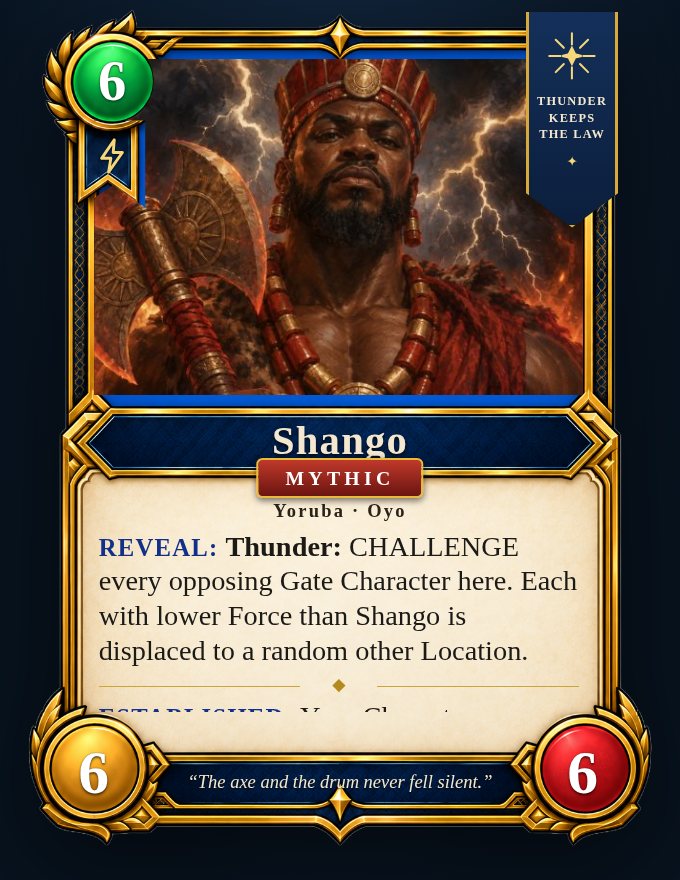
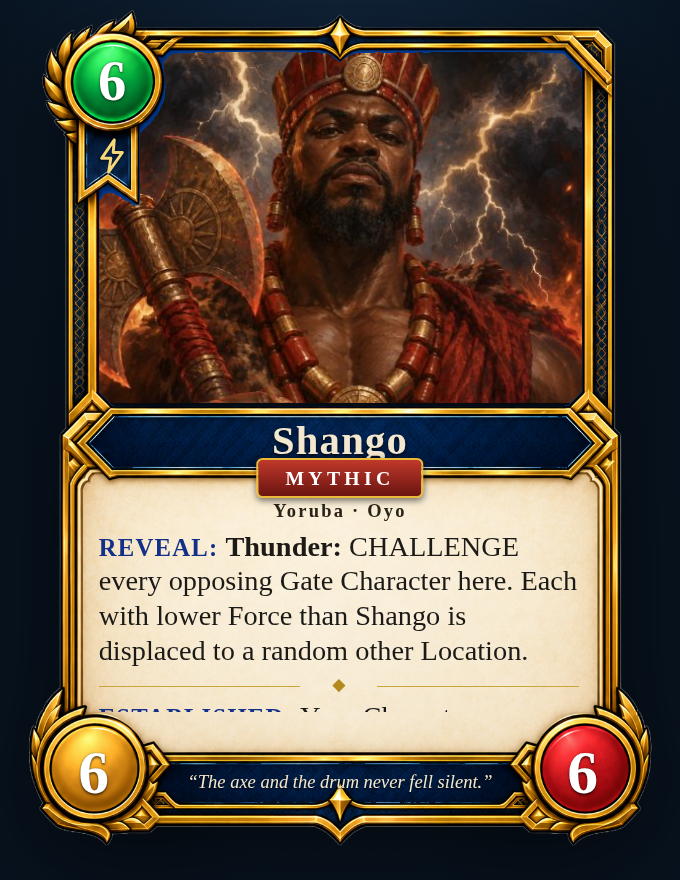
docs: card template on the knocked-out frame, pennant hidden
Claude-Session: https://claude.ai/code/session_01CdCWBBELLp3cWMWqqhgQtC

Changed region(s): [[0.1235, 0.0, 0.9265, 0.4602]]

diff --git a/docs/card-template/mock.html b/docs/card-template/mock.html
@@ -1,7 +1,7 @@
 <title>Universal Card Template</title>
 <link rel="stylesheet" href="https://fonts.googleapis.com/css2?family=Cinzel:wght@600;700;800&family=Crimson+Pro:ital,wght@0,500;0,600;0,700;1,500&display=swap">
 <style>
-  :root { --frame: url("card-template.png"); --bg: #08131f; --panel: #0f1f33; --line: #2a4466; --text: #f1e9d6; --muted: #a9b4c2; --gold: #e9b93a; --gold-2: #f6d77a; --parchment: #f3e8cf; --display: 'Cinzel', 'Trajan Pro', Georgia, serif; --font: 'Crimson Pro', Georgia, serif; }
+  :root { --frame: url("card-frame.png"); --bg: #08131f; --panel: #0f1f33; --line: #2a4466; --text: #f1e9d6; --muted: #a9b4c2; --gold: #e9b93a; --gold-2: #f6d77a; --parchment: #f3e8cf; --display: 'Cinzel', 'Trajan Pro', Georgia, serif; --font: 'Crimson Pro', Georgia, serif; }
   body { margin: 0; background: var(--bg) radial-gradient(ellipse at 50% -10%, #142a44 0%, var(--bg) 60%); color: var(--text); font-family: var(--font); font-size: 18px; line-height: 1.45; padding-block: 28px 64px; padding-inline: clamp(16px, 4vw, 48px); }
   .wrap { max-width: 1100px; margin: 0 auto; }
   header { text-align: center; margin-bottom: 18px; }
@@ -19,24 +19,19 @@
   h2 { font-family: var(--display); font-weight: 700; font-size: 16px; letter-spacing: 0.12em; text-transform: uppercase; color: var(--gold-2); margin: 0 0 4px; }
 
   /* One card = the template's 1103 x 1426 box; every measurement is a percentage of the card's width (cqw), so the
-     same layout holds at hand size and at Codex size. The frame is the designer's PNG, untouched: the portrait sits
-     on top of it, clipped to the blue window. */
+     same layout holds at hand size and at Codex size. The frame is the designer's PNG with its window knocked out,
+     so the portrait sits under it and the medallions and ribbon are simply part of the frame. */
   .card { position: relative; container-type: inline-size; width: 100%; aspect-ratio: 1103 / 1426; font-family: var(--font); color: #1b1a17; }
   .card > * { position: absolute; }
   .card .frame { inset: 0; width: 100%; height: 100%; z-index: 2; pointer-events: none; background: var(--frame) center / 100% 100% no-repeat; }
-  /* The cost medallion and its ribbon are painted on the frame over the window, so two more passes of the same PNG,
-     cut to just those shapes (a circle for the medallion, the ribbon's pennant outline), ride above the portrait. */
-  .card .frame-medal, .card .frame-ribbon { inset: 0; width: 100%; height: 100%; z-index: 4; pointer-events: none; background: var(--frame) center / 100% 100% no-repeat; }
-  .card .frame-medal { -webkit-mask: radial-gradient(circle at 16.50cqw 11.79cqw, #000 6.05cqw, transparent 6.15cqw); mask: radial-gradient(circle at 16.50cqw 11.79cqw, #000 6.05cqw, transparent 6.15cqw); }
-  .card .frame-ribbon { clip-path: polygon(11.85cqw 17.60cqw, 21.35cqw 17.60cqw, 21.35cqw 30.40cqw, 16.60cqw 27.10cqw, 11.85cqw 30.40cqw); }
-  .card .art { left: 13.78cqw; top: 8.52cqw; width: 71.99cqw; height: 49.50cqw; z-index: 3; background-size: cover; background-position: center 18%; }
+  .card .art { left: 12.70cqw; top: 7.40cqw; width: 74.20cqw; height: 51.80cqw; z-index: 1; background-size: cover; background-position: center 18%; }
   .card .num { z-index: 5; font-family: var(--display); font-weight: 800; color: #fff; text-align: center; transform: translate(-50%, -50%); text-shadow: 0 0.27cqw 0.36cqw rgba(0,0,0,0.55), 0 0 0.18cqw rgba(0,0,0,0.6); line-height: 1; }
   .card .cost { left: 16.50cqw; top: 11.79cqw; font-size: 8.34cqw; }
   .card .inf { left: 13.78cqw; top: 113.51cqw; font-size: 9.07cqw; }
   .card .force { left: 85.68cqw; top: 113.51cqw; font-size: 9.07cqw; }
   .card .kindicon { z-index: 5; left: 16.50cqw; top: 22.85cqw; transform: translate(-50%, -50%); width: 5.44cqw; height: 5.44cqw; }
   .card .kindicon svg { width: 100%; height: 100%; fill: none; stroke: #f6d77a; stroke-width: 5; stroke-linejoin: round; stroke-linecap: round; filter: drop-shadow(0 0.18cqw 0.18cqw rgba(0,0,0,0.6)); }
-  .card .pennant { z-index: 3; right: 9.07cqw; top: 1.63cqw; width: 13.60cqw; height: 31.73cqw; background: linear-gradient(180deg, #14305a, #0b1e3c); border: 0.54cqw solid #d8a83a; border-top: 0; clip-path: polygon(0 0, 100% 0, 100% 84%, 50% 100%, 0 84%); box-shadow: 0 0.54cqw 1.63cqw rgba(0,0,0,0.5); display: flex; flex-direction: column; align-items: center; padding: 2.18cqw 0.91cqw; box-sizing: border-box; }
+  .card .pennant { z-index: 3; right: 9.07cqw; top: 1.63cqw; width: 13.60cqw; height: 31.73cqw; background: linear-gradient(180deg, #14305a, #0b1e3c); border: 0.54cqw solid #d8a83a; border-top: 0; clip-path: polygon(0 0, 100% 0, 100% 84%, 50% 100%, 0 84%); box-shadow: 0 0.54cqw 1.63cqw rgba(0,0,0,0.5); display: flex; flex-direction: column; align-items: center; padding: 2.18cqw 0.91cqw; box-sizing: border-box; display: none; }
   .card .pennant .sun { width: 7.62cqw; height: 7.62cqw; margin: 0.54cqw 0 1.63cqw; }
   .card .pennant .motto { font-family: var(--display); font-weight: 700; font-size: 1.81cqw; line-height: 1.35; letter-spacing: 0.1em; color: #f3e8cf; text-align: center; }
   .card .pennant .dia { color: #f6d77a; font-size: 1.99cqw; margin-top: 1.27cqw; }
@@ -62,14 +57,12 @@
   <header>
     <div class="eyebrow">Stand on Business · sketch, not in the game yet</div>
     <h1>Universal Card Template</h1>
-    <p>Your PNG, untouched, as the frame. The portrait sits over the blue window; the rules are set at reading size and scroll when they run long.</p>
+    <p>Your frame with the window knocked out, the portrait under it; the rules are set at reading size and scroll when they run long. The motto pennant is hidden until it is something a player has won.</p>
   </header>
   <div class="tabs" role="tablist"><button type="button" class="tab on" data-for="david_ruggles" id="tab-david_ruggles">David Ruggles</button><button type="button" class="tab" data-for="shango" id="tab-shango">Shango</button><button type="button" class="tab" data-for="reparations" id="tab-reparations">Reparations</button></div>
   <div class="stage"><section class="slide" data-id="david_ruggles"><div class="card " data-id="david_ruggles">
       <div class="art" style="background-image:url('../../public/art/characters/david_ruggles.jpg')"></div>
       <div class="frame"></div>
-      <div class="frame-medal"></div>
-      <div class="frame-ribbon"></div>
       <div class="num cost">3</div>
       <div class="kindicon"><svg viewBox="0 0 64 64"><path d="M8 14c8-4 16-4 24 2 8-6 16-6 24-2v36c-8-4-16-4-24 2-8-6-16-6-24-2z"/><path d="M32 16v38"/></svg></div>
       <div class="pennant"><svg class="sun" viewBox="0 0 64 64" fill="none" stroke="#f6d77a" stroke-width="2.5" stroke-linecap="round"><path d="M32 4v14M32 46v14M4 32h14M46 32h14M12 12l10 10M42 42l10 10M52 12L42 22M22 42 12 52"/><path d="M32 22l4 8 8 2-8 2-4 8-4-8-8-2 8-2z" fill="#f6d77a"/></svg><div class="motto">TRUTH ORGANIZES FREEDOM</div><div class="dia">✦</div></div>
@@ -82,8 +75,6 @@
     </div></section><section class="slide" data-id="shango" hidden><div class="card mythic" data-id="shango">
       <div class="art" style="background-image:url('../../public/art/characters/shango.jpg')"></div>
       <div class="frame"></div>
-      <div class="frame-medal"></div>
-      <div class="frame-ribbon"></div>
       <div class="num cost">6</div>
       <div class="kindicon"><svg viewBox="0 0 64 64"><path d="M36 4 14 36h16l-4 24 24-34H34z"/></svg></div>
       <div class="pennant"><svg class="sun" viewBox="0 0 64 64" fill="none" stroke="#f6d77a" stroke-width="2.5" stroke-linecap="round"><path d="M32 4v14M32 46v14M4 32h14M46 32h14M12 12l10 10M42 42l10 10M52 12L42 22M22 42 12 52"/><path d="M32 22l4 8 8 2-8 2-4 8-4-8-8-2 8-2z" fill="#f6d77a"/></svg><div class="motto">THUNDER KEEPS THE LAW</div><div class="dia">✦</div></div>
@@ -96,8 +87,6 @@
     </div></section><section class="slide" data-id="reparations" hidden><div class="card event" data-id="reparations">
       <div class="art" style="background-image:url('../../public/art/events/reparations.jpg')"></div>
       <div class="frame"></div>
-      <div class="frame-medal"></div>
-      <div class="frame-ribbon"></div>
       <div class="num cost">1</div>
       <div class="kindicon"><svg viewBox="0 0 64 64"><path d="M32 6l6 18h19l-15 11 6 19-16-12-16 12 6-19L7 24h19z"/></svg></div>
       <div class="pennant"><svg class="sun" viewBox="0 0 64 64" fill="none" stroke="#f6d77a" stroke-width="2.5" stroke-linecap="round"><path d="M32 4v14M32 46v14M4 32h14M46 32h14M12 12l10 10M42 42l10 10M52 12L42 22M22 42 12 52"/><path d="M32 22l4 8 8 2-8 2-4 8-4-8-8-2 8-2z" fill="#f6d77a"/></svg><div class="motto">THE DEBT IS OWED WHERE IT WAS RUN UP</div><div class="dia">✦</div></div>
@@ -112,7 +101,7 @@
     <h2>Open questions</h2>
     <div><b>Events.</b> No Influence or Force, so the bottom medallions sit empty. Either a second frame without them, or they carry Event marks (a Location glyph, an hourglass for “counts at the end”).</div>
     <div><b>Two copy fields.</b> A motto for the pennant and a quotation for the strip. Stand-ins here, borrowed from each blurb.</div>
-    <div><b>The pennant.</b> Drawn in CSS here; it could be painted into the frame instead.</div>
+    <div><b>The pennant.</b> A reward, so hidden for now; the slot at the top right stays reserved for it.</div>
   </section>
 </div>
 <script>

diff --git a/docs/card-template.md b/docs/card-template.md
@@ -9,14 +9,13 @@ its renders. Every measurement is in `cqw` (percent of the card's width), so the
 
 ## The layers, bottom to top
 
-1. **Frame.** `card-template.png`, the designer's PNG exactly as supplied: transparent outside the frame, solid blue
-   inside the art window. It is never edited.
-2. **Art.** The portrait, cover-fitted to the window rectangle and layered *over* the frame's blue (face at about
-   18% from the top). The window's gold bevel stays visible around it.
-3. **Medallion and ribbon.** The cost medallion and the pennant under it are painted on the frame across the window,
-   so two more passes of the same PNG, cut to just those shapes (a circle, the pennant outline), sit above the art.
-4. **Marks and text.** Numbers in the medallions, the kind icon in the ribbon, the motto pennant at the top right,
-   the name, the tag pill, the era, the rules (which scroll when they run long, like the current big card), the quote.
+1. **Art.** The portrait, cover-fitted to the window (face at about 18% from the top).
+2. **Frame.** `card-frame.png`: the designer's PNG with the blue window knocked out to transparent, so the portrait
+   shows through it and the cost medallion and ribbon, painted across the window's corner, sit over the art as part
+   of the frame. (`card-template.png` is the original with the blue still in.)
+3. **Marks and text.** Numbers in the medallions, the kind icon in the ribbon, the name, the tag pill, the era, the
+   rules (which scroll when they run long, like the current big card), the quote. The motto pennant at the top right
+   is a reward players win, so it is hidden for now; its slot stays reserved.
 
 ## Slot geometry (px on the 1103 × 1426 template; percentages for CSS or Unity anchors)
 
